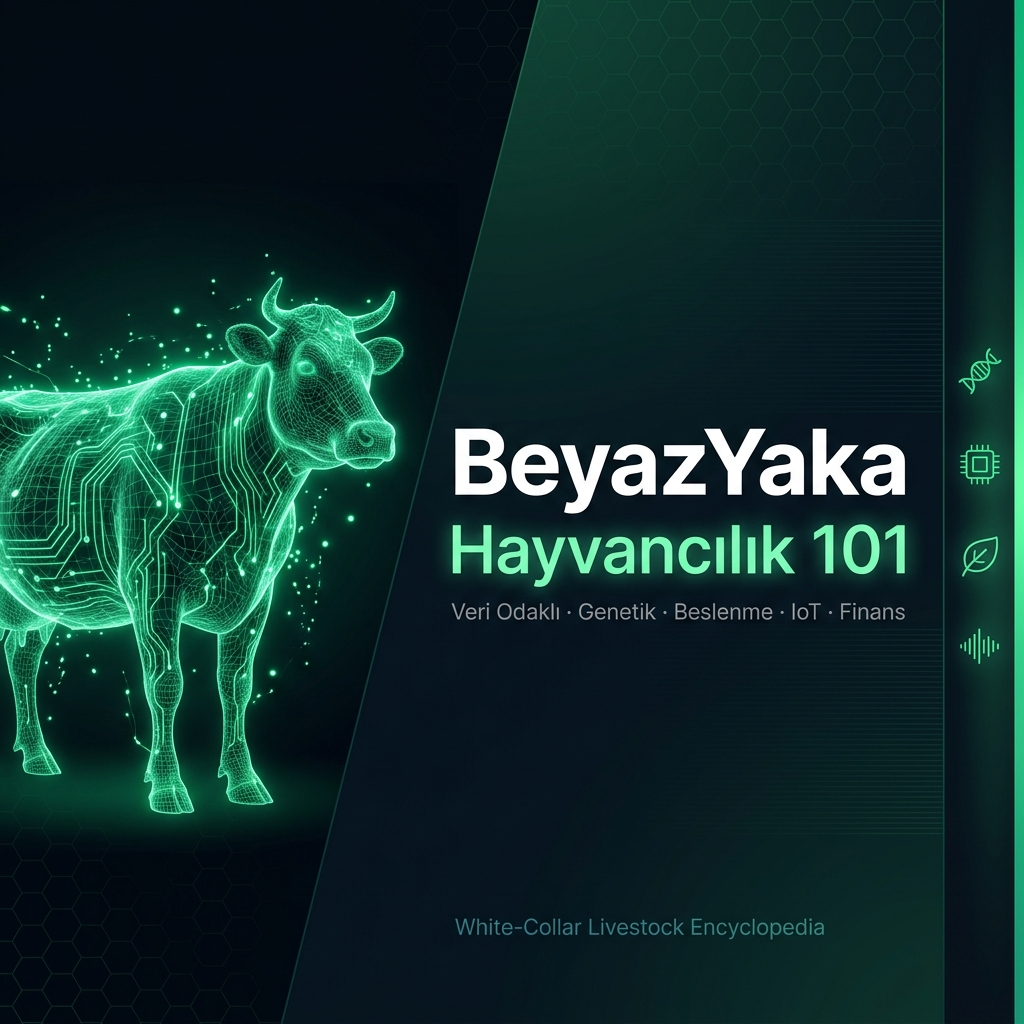
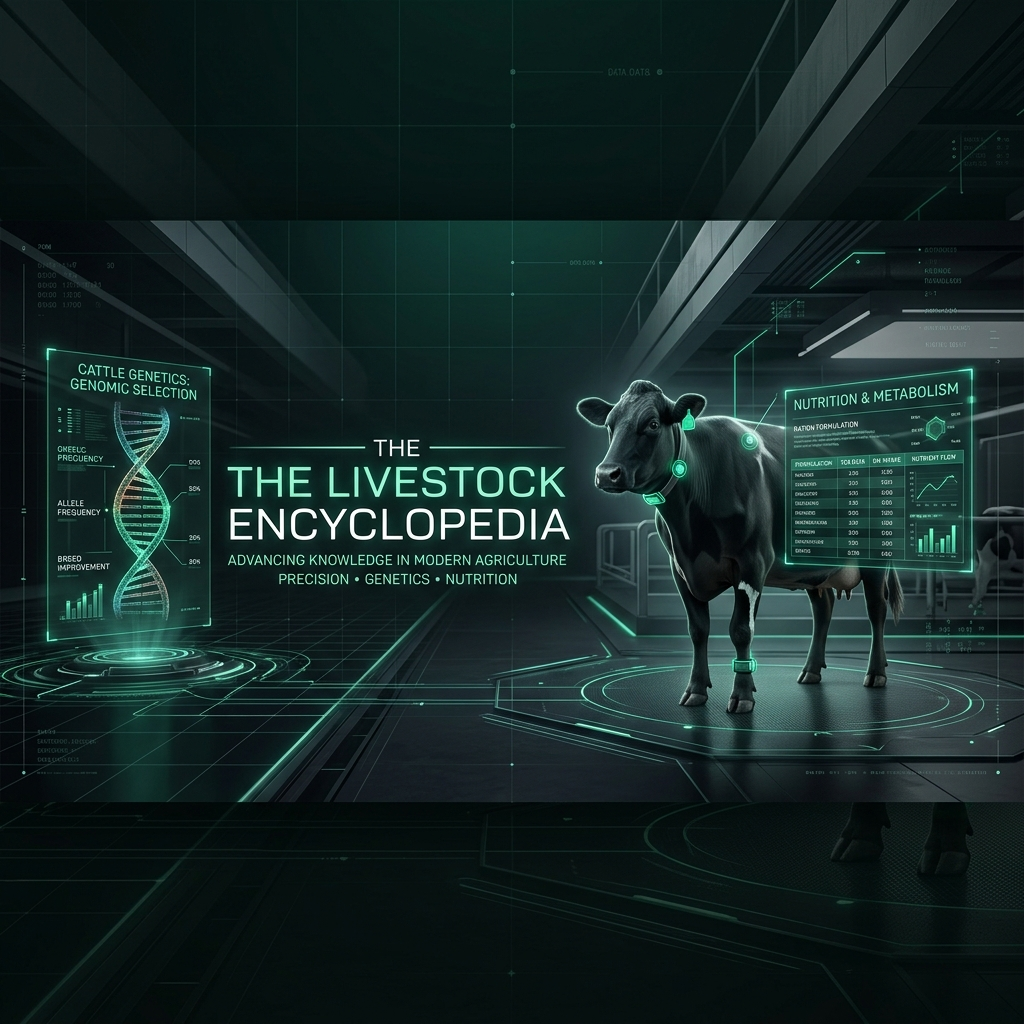
chore: rename project to The Livestock Encyclopedia & update elite branding

diff --git a/scripts/financial_model.py b/scripts/financial_model.py
@@ -1,6 +1,6 @@
 #!/usr/bin/env python3
 """
-financial_model.py — BeyazYaka Hayvancilik Finansal Modeli
+financial_model.py — THE LIVESTOCK ENCYCLOPEDIA: Finansal Model
 ROI, Break-even, Nakit Akışı ve 5 Yıllık Projeksiyon
 """
 
@@ -91,7 +91,7 @@ def run_financial_model(params: FarmParameters, years: int = 5) -> List[YearlyRe
 
 def print_report(params: FarmParameters, results: List[YearlyResults]):
     print("\n" + "=" * 70)
-    print("  BEYAZ YAKA HAYVANCILIK - 5 YILLIK FİNANSAL PROJEKSIYON")
+    print("  THE LIVESTOCK ENCYCLOPEDIA - 5 YILLIK FİNANSAL PROJEKSİYON")
     print("=" * 70)
     print(f"  Başlangıç Sürü: {params.herd_size} baş | Başlangıç Yatırımı: {params.total_investment:,.0f} TL")
     print(f"  Günlük Süt: {params.daily_milk_per_cow}L/baş | Süt Fiyatı: {params.milk_price_per_liter} TL/L")

diff --git a/scripts/ration_calculator.py b/scripts/ration_calculator.py
@@ -20,7 +20,7 @@ def calculate_ration(data, animal_breed, ration_mix):
         return
 
     print(f"\n" + "="*60)
-    print(f"BEYAZ YAKA HAYVANCILIK - RATION ANALYSIS: {animal_breed.upper()}")
+    print(f"THE LIVESTOCK ENCYCLOPEDIA - RATION ANALYSIS: {animal_breed.upper()}")
     print("="*60)
     
     target_cp = breed_data.get('lactation_cp_pct', breed_data.get('growth_cp_pct'))

diff --git a/scripts/herd_health_tracker.py b/scripts/herd_health_tracker.py
@@ -1,6 +1,6 @@
 #!/usr/bin/env python3
 """
-herd_health_tracker.py -- BeyazYaka Suru Saglik Kayit ve Uyari Sistemi
+# herd_health_tracker.py -- THE LIVESTOCK ENCYCLOPEDIA: Sürü Sağlık Kayıt ve Uyarı Sistemi
 Basit CLI tabanli suru saglik veri yonetimi ve anomali uyarisi
 """
 

diff --git a/README.md b/README.md
@@ -1,8 +1,8 @@
 <div align="center">
-  <img src="assets/banner.png" alt="BeyazYaka Hayvancılık 101 Banner" width="100%"/>
+  <img src="assets/banner.png" alt="The Livestock Encyclopedia Banner" width="100%"/>
 </div>
 
-# 🐄 Beyaz Yaka Hayvancılık 101 | White-Collar Livestock Masterclass
+# 🐄 The Livestock Encyclopedia | Veri Odaklı Modern Hayvancılık
 
 [![License: MIT](https://img.shields.io/badge/License-MIT-yellow.svg)](https://opensource.org/licenses/MIT)
 [![Docs](https://img.shields.io/badge/Docs-Kapsamlı-blue.svg)]()
@@ -10,9 +10,9 @@
 [![Language: TR/EN](https://img.shields.io/badge/Language-TR%2FEN-orange.svg)]()
 [![Status: Active](https://img.shields.io/badge/Status-Active-success.svg)]()
 
-> **TR:** Kurumsal dünyadan tarımsal üretime geçiş yapan profesyoneller için; veri odaklı, teknik ve sürdürülebilir hayvancılığın ansiklopedik kılavuzu. Genetikten finansmana, beslenmeden IoT'ye kadar her şey bu repoda.
+> **TR:** Veri odaklı, teknik ve sürdürülebilir hayvancılığın nihai ansiklopedik kılavuzu. Kurumsal disiplini modern tarımla buluşturan, yüksek yoğunluklu mühendislik kaynağı.
 >
-> **EN:** The encyclopedic guide to data-driven, technical, and sustainable livestock management for professionals transitioning from the corporate world. From genetics to finance, nutrition to IoT — everything is in this repository.
+> **EN:** The definitive encyclopedic guide to data-driven, technical, and sustainable livestock engineering. Bridging corporate discipline with modern agriculture through high-density knowledge.
 
 ---
 
@@ -36,7 +36,7 @@
 
 ## 📌 Misyon ve Mimari
 
-### Neden "Beyaz Yaka Hayvancılık"?
+### Neden "The Livestock Encyclopedia"?
 
 Türkiye'de hayvancılık sektörü, son 20 yılda dramatik bir dönüşüm yaşadı. Ancak sektöre giren beyaz yakalı profesyoneller, teknik bilgiye sistematik biçimde ulaşmakta ciddi güçlük çekiyor. Bu repo, bu boşluğu **kurumsal metodoloji** ile dolduruyor.
 
@@ -409,6 +409,6 @@ Bu proje sürekli büyüyen, açık kaynaklı bir bilgi tabanıdır. Katkıda bu
 
 **"Hayvancılığı data ile yönet, sezgiyle değil."**
 
-*BeyazYaka-Hayvancilik-101 — Kurumsal dünyadan çiftliğe köprü*
+*The-Livestock-Encyclopedia — Data-driven precision, elite-level results.*
 
 </div>

diff --git a/CONTRIBUTING.md b/CONTRIBUTING.md
@@ -1,4 +1,4 @@
-# Contributing to BeyazYaka-Hayvancilik-101
+# Contributing to The Livestock Encyclopedia
 
 We welcome contributions from everyone! Whether you are a professional veterinarian, a seasoned farmer, or a white-collar professional with a passion for data-driven livestock management.
 

diff --git a/ROADMAP.md b/ROADMAP.md
@@ -1,4 +1,4 @@
-# Roadmap: BeyazYaka-Hayvancilik-101
+# Roadmap: The Livestock Encyclopedia
 
 Our goal is to build the definitive open-source technical encyclopedia for data-driven livestock management.
 
